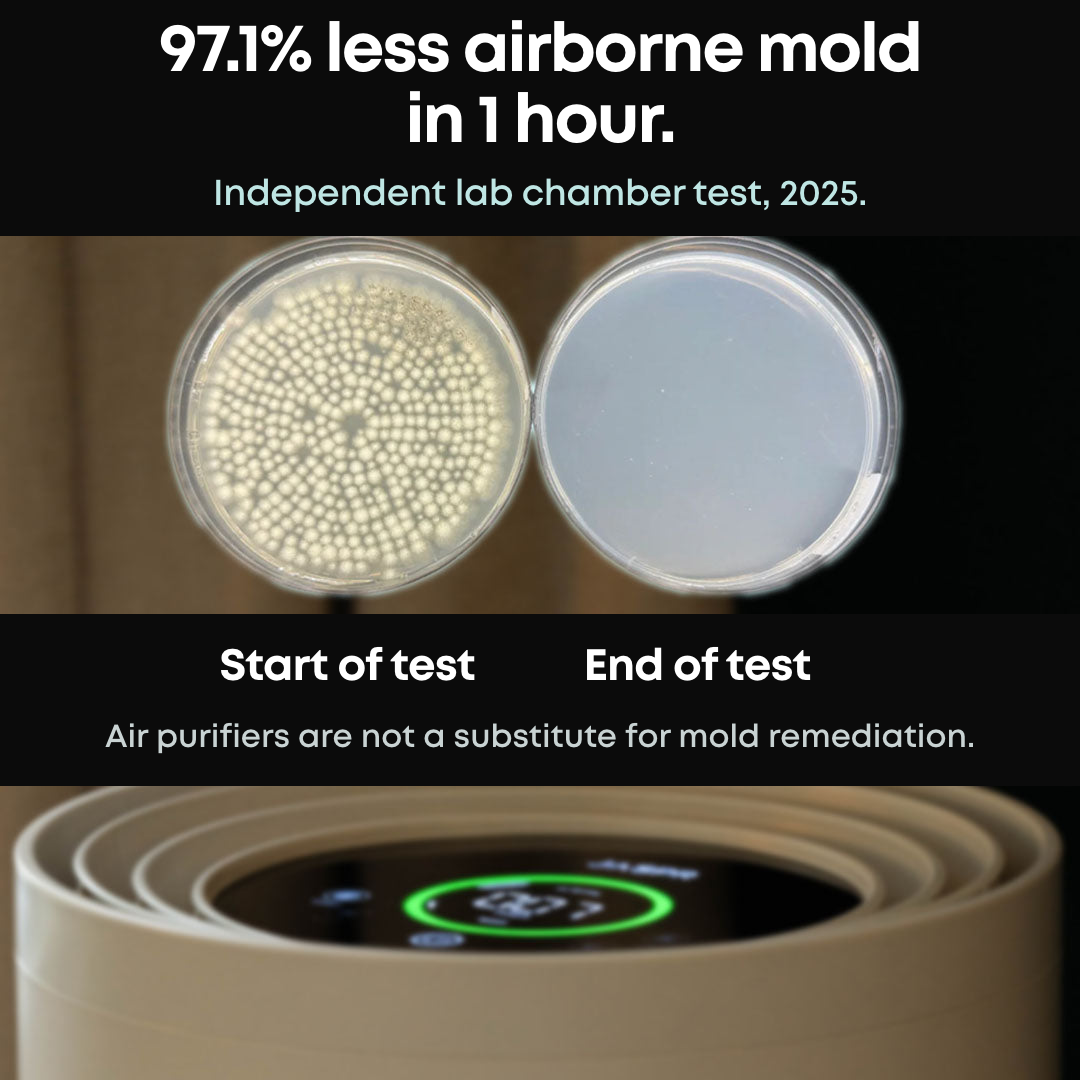
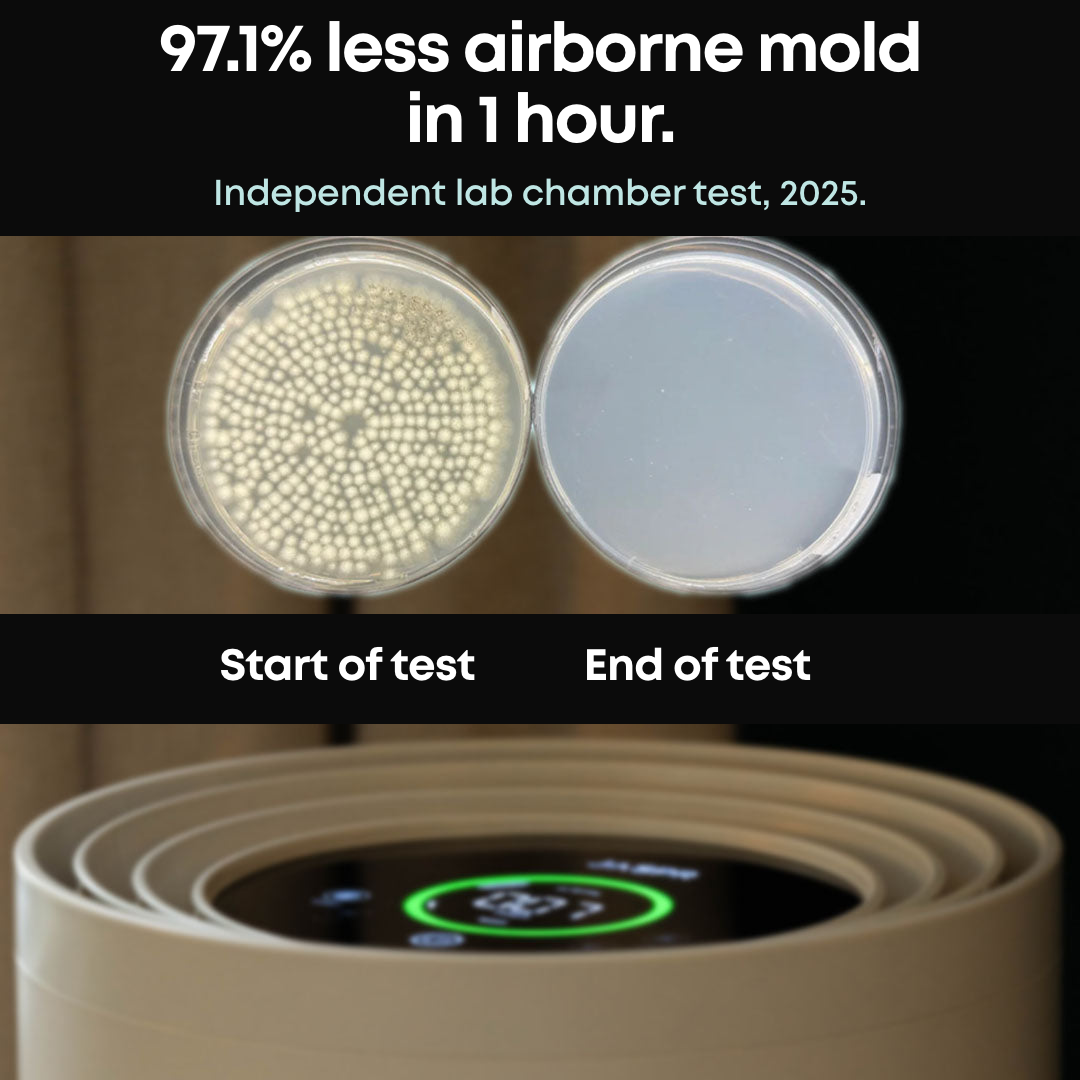
Gallery mold image: remediation line removed

Changed region(s): [[0.0, 0.6722, 0.9167, 0.7333]]

diff --git a/cro-review-886af9e9/sections/gallery-images/preview.html b/cro-review-886af9e9/sections/gallery-images/preview.html
@@ -216,7 +216,7 @@ summary.list-menu__item{padding-right:2.7rem}.list-menu__item{display:flex;align
   <div class="gal"><figure><img src="https://jaspr.co/cdn/shop/files/Jaspr_Alex_Clark_Web_photo_1.jpg?v=1793032386&width=1080" alt="" loading="lazy"></figure><figure><img src="https://jaspr.co/cdn/shop/files/jaspr-scrubber-brightened_ca2d3e73-ae5b-4bcd-8caf-c98d8d549d9d.png?v=1792511174&width=1080" alt="" loading="lazy"></figure><figure><img src="new/05-size.png" alt="" loading="lazy"><figcaption>New</figcaption></figure><figure><img src="new/07-protecting.png" alt="" loading="lazy"><figcaption>New</figcaption></figure><figure><img src="new/09-mold-lab-study.png" alt="" loading="lazy"><figcaption>New</figcaption></figure><figure><img src="new/06-clean-air-you-can-feel.png" alt="" loading="lazy"><figcaption>New</figcaption></figure><figure><img src="new/08-real-time-reading.png" alt="" loading="lazy"><figcaption>New</figcaption></figure><figure><img src="https://jaspr.co/cdn/shop/files/JasprArtboardArtboard4copy_9d21c27e-dd20-4767-8bda-12925e42b30d.jpg?v=1778792953&width=1080" alt="" loading="lazy"></figure><figure><img src="new/02-lifetime-warranty.png" alt="" loading="lazy"><figcaption>New</figcaption></figure><figure><img src="https://jaspr.co/cdn/shop/files/JasprArtboardArtboard23_db54fcfb-698f-42ab-b047-7918c51b60a8.jpg?v=1778792953&width=1080" alt="" loading="lazy"></figure><figure><img src="new/04-sleep-study.png" alt="" loading="lazy"><figcaption>New · needs sign-off</figcaption></figure><figure><img src="new/01-smoke-cadr.png" alt="" loading="lazy"><figcaption>New</figcaption></figure></div>
   <h2>Before and after</h2>
   <p class="lede">The five images on the card, then the four borderline ones. Each remake has one headline and at most one supporting line.</p>
-  <div class="pairs"><div class="pair"><h3>Wildfire smoke<span class="tag" style="background:#0E7A82">On the card</span></h3><div class="two"><div><img src="current/03-ChatGPT_Image_Jul_19_2026_at_11_18_14_AM.png" alt="Current image" loading="lazy"><span class="lbl">Now</span></div><div><img src="new/01-smoke-cadr.png" alt="Remade image" loading="lazy"><span class="lbl new">New</span></div></div><p>Paragraph and five tiny bullets replaced by one measured number. The old headline (“Built for wildfire smoke”) breaks the fact sheet’s wildfire rule, so it is gone. Better background: smoke-living-room.jpg (prompt written).</p></div><div class="pair"><h3>Lifetime warranty<span class="tag" style="background:#0E7A82">On the card</span></h3><div class="two"><div><img src="current/08-Jaspr_ArtboardArtboard_3_copy_1.jpg" alt="Current image" loading="lazy"><span class="lbl">Now</span></div><div><img src="new/02-lifetime-warranty.png" alt="Remade image" loading="lazy"><span class="lbl new">New</span></div></div><p>Amy K.’s long review is out (it already appears in the reviews below). The condition (filter subscription) is now in the headline instead of an asterisk.</p></div><div class="pair"><h3>Allergies / cat<span class="tag" style="background:#0E7A82">On the card</span></h3><div class="two"><div><img src="current/12-JasprArtboardArtboard17copy_269f0a4e-3994-43ad-812e-b7d58b084cfd.jpg" alt="Current image" loading="lazy"><span class="lbl">Now</span></div><div><img src="new/03-pets.png" alt="Remade image" loading="lazy"><span class="lbl new">New</span></div></div><p>Lisa N.’s review is out, and so is the allergy claim (symptom claims are not allowed). Not in the live gallery as of Nov 2; ready if it comes back. Optional better background: pets-living-room.jpg.</p></div><div class="pair"><h3>Sleep study<span class="tag" style="background:#B4452F">Needs sign-off</span></h3><div class="two"><div><img src="current/10-JasprArtboardArtboard11copy_a12bbf75-bfe0-45b7-b33e-a071319d29d7.jpg" alt="Current image" loading="lazy"><span class="lbl">Now</span></div><div><img src="new/04-sleep-study.png" alt="Remade image" loading="lazy"><span class="lbl new">New</span></div></div><p>The study numbers are now the headline. NEEDS SIGN-OFF: sleep claims are on hold until the Oura study write-up is approved. Better background: sleep-bedroom.jpg (prompt written).</p></div><div class="pair"><h3>Size comparison<span class="tag" style="background:#0E7A82">On the card</span></h3><div class="two"><div><img src="current/15-JasprArtboardArtboard24_ed5061ee-5ef0-4f47-92cd-6a9dd9bcaf45.jpg" alt="Current image" loading="lazy"><span class="lbl">Now</span></div><div><img src="new/05-size.png" alt="Remade image" loading="lazy"><span class="lbl new">New</span></div></div><p>The three tiny badges become one readable one. “Endorsed by health experts” is dropped (nothing on file backs it); “3rd party lab tested” is dropped because the only lab test on file is the mold test.</p></div><div class="pair"><h3>Clean air you can feel<span class="tag" style="background:#676986">Borderline, optional</span></h3><div class="two"><div><img src="current/05-JasprArtboardArtboard8copy_b2a109f0-72f0-4fac-b263-d053eff186c7.jpg" alt="Current image" loading="lazy"><span class="lbl">Now</span></div><div><img src="new/06-clean-air-you-can-feel.png" alt="Remade image" loading="lazy"><span class="lbl new">New</span></div></div><p>Marcia M.’s review (a sleep line) is out; supporting line is the verified “plug in, no app” fact.</p></div><div class="pair"><h3>Protecting those who need it most<span class="tag" style="background:#676986">Borderline, optional</span></h3><div class="two"><div><img src="current/13-JasprArtboardArtboard9copy_5e773d7d-aad5-422e-b7a2-cda9e7362697.jpg" alt="Current image" loading="lazy"><span class="lbl">Now</span></div><div><img src="new/07-protecting.png" alt="Remade image" loading="lazy"><span class="lbl new">New</span></div></div><p>The tiny “Trusted by over 50,000 customers” becomes a readable line. It uses the review count on file (more than 1,100); swap back to 50,000 if Jaspr can back it.</p></div><div class="pair"><h3>Real-time air quality<span class="tag" style="background:#676986">Borderline, optional</span></h3><div class="two"><div><img src="current/07-JasprArtboardArtboard7copy_55c43cdc-3a68-4173-a15a-0bddbf573c00.jpg" alt="Current image" loading="lazy"><span class="lbl">Now</span></div><div><img src="new/08-real-time-reading.png" alt="Remade image" loading="lazy"><span class="lbl new">New</span></div></div><p>Same idea, larger type. The supporting line describes what the sensor does, not the reading on the screen.</p></div><div class="pair"><h3>Mold lab study<span class="tag" style="background:#676986">Borderline, optional</span></h3><div class="two"><div><img src="current/06-JasprArtboardArtboard12copy2_f52f1ec7-0d73-4fc8-a3f4-4eeff32a0d2e.jpg" alt="Current image" loading="lazy"><span class="lbl">Now</span></div><div><img src="new/09-mold-lab-study.png" alt="Remade image" loading="lazy"><span class="lbl new">New</span></div></div><p>Dish labels say “Start / End of test” (the lab report’s photo is the 120-minute dish, not 60), plus the required remediation caveat.</p></div></div>
+  <div class="pairs"><div class="pair"><h3>Wildfire smoke<span class="tag" style="background:#0E7A82">On the card</span></h3><div class="two"><div><img src="current/03-ChatGPT_Image_Jul_19_2026_at_11_18_14_AM.png" alt="Current image" loading="lazy"><span class="lbl">Now</span></div><div><img src="new/01-smoke-cadr.png" alt="Remade image" loading="lazy"><span class="lbl new">New</span></div></div><p>Paragraph and five tiny bullets replaced by one measured number. The old headline (“Built for wildfire smoke”) breaks the fact sheet’s wildfire rule, so it is gone. Better background: smoke-living-room.jpg (prompt written).</p></div><div class="pair"><h3>Lifetime warranty<span class="tag" style="background:#0E7A82">On the card</span></h3><div class="two"><div><img src="current/08-Jaspr_ArtboardArtboard_3_copy_1.jpg" alt="Current image" loading="lazy"><span class="lbl">Now</span></div><div><img src="new/02-lifetime-warranty.png" alt="Remade image" loading="lazy"><span class="lbl new">New</span></div></div><p>Amy K.’s long review is out (it already appears in the reviews below). The condition (filter subscription) is now in the headline instead of an asterisk.</p></div><div class="pair"><h3>Allergies / cat<span class="tag" style="background:#0E7A82">On the card</span></h3><div class="two"><div><img src="current/12-JasprArtboardArtboard17copy_269f0a4e-3994-43ad-812e-b7d58b084cfd.jpg" alt="Current image" loading="lazy"><span class="lbl">Now</span></div><div><img src="new/03-pets.png" alt="Remade image" loading="lazy"><span class="lbl new">New</span></div></div><p>Lisa N.’s review is out, and so is the allergy claim (symptom claims are not allowed). Not in the live gallery as of Nov 2; ready if it comes back. Optional better background: pets-living-room.jpg.</p></div><div class="pair"><h3>Sleep study<span class="tag" style="background:#B4452F">Needs sign-off</span></h3><div class="two"><div><img src="current/10-JasprArtboardArtboard11copy_a12bbf75-bfe0-45b7-b33e-a071319d29d7.jpg" alt="Current image" loading="lazy"><span class="lbl">Now</span></div><div><img src="new/04-sleep-study.png" alt="Remade image" loading="lazy"><span class="lbl new">New</span></div></div><p>The study numbers are now the headline. NEEDS SIGN-OFF: sleep claims are on hold until the Oura study write-up is approved. Better background: sleep-bedroom.jpg (prompt written).</p></div><div class="pair"><h3>Size comparison<span class="tag" style="background:#0E7A82">On the card</span></h3><div class="two"><div><img src="current/15-JasprArtboardArtboard24_ed5061ee-5ef0-4f47-92cd-6a9dd9bcaf45.jpg" alt="Current image" loading="lazy"><span class="lbl">Now</span></div><div><img src="new/05-size.png" alt="Remade image" loading="lazy"><span class="lbl new">New</span></div></div><p>The three tiny badges become one readable one. “Endorsed by health experts” is dropped (nothing on file backs it); “3rd party lab tested” is dropped because the only lab test on file is the mold test.</p></div><div class="pair"><h3>Clean air you can feel<span class="tag" style="background:#676986">Borderline, optional</span></h3><div class="two"><div><img src="current/05-JasprArtboardArtboard8copy_b2a109f0-72f0-4fac-b263-d053eff186c7.jpg" alt="Current image" loading="lazy"><span class="lbl">Now</span></div><div><img src="new/06-clean-air-you-can-feel.png" alt="Remade image" loading="lazy"><span class="lbl new">New</span></div></div><p>Marcia M.’s review (a sleep line) is out; supporting line is the verified “plug in, no app” fact.</p></div><div class="pair"><h3>Protecting those who need it most<span class="tag" style="background:#676986">Borderline, optional</span></h3><div class="two"><div><img src="current/13-JasprArtboardArtboard9copy_5e773d7d-aad5-422e-b7a2-cda9e7362697.jpg" alt="Current image" loading="lazy"><span class="lbl">Now</span></div><div><img src="new/07-protecting.png" alt="Remade image" loading="lazy"><span class="lbl new">New</span></div></div><p>The tiny “Trusted by over 50,000 customers” becomes a readable line. It uses the review count on file (more than 1,100); swap back to 50,000 if Jaspr can back it.</p></div><div class="pair"><h3>Real-time air quality<span class="tag" style="background:#676986">Borderline, optional</span></h3><div class="two"><div><img src="current/07-JasprArtboardArtboard7copy_55c43cdc-3a68-4173-a15a-0bddbf573c00.jpg" alt="Current image" loading="lazy"><span class="lbl">Now</span></div><div><img src="new/08-real-time-reading.png" alt="Remade image" loading="lazy"><span class="lbl new">New</span></div></div><p>Same idea, larger type. The supporting line describes what the sensor does, not the reading on the screen.</p></div><div class="pair"><h3>Mold lab study<span class="tag" style="background:#676986">Borderline, optional</span></h3><div class="two"><div><img src="current/06-JasprArtboardArtboard12copy2_f52f1ec7-0d73-4fc8-a3f4-4eeff32a0d2e.jpg" alt="Current image" loading="lazy"><span class="lbl">Now</span></div><div><img src="new/09-mold-lab-study.png" alt="Remade image" loading="lazy"><span class="lbl new">New</span></div></div><p>Dish labels say “Start / End of test” (the lab report’s photo is the 120-minute dish, not 60).</p></div></div>
   <h2>New background versions</h2>
   <p class="lede">Three versions each, made with an image generator using a real Jaspr photo as the guide, then placed in the same layout as above. Pick one per row, or keep the current photo.</p>
   <div class="ver"><h3>Wildfire smoke</h3><p>Hazy orange sky outside, no flames, no people. Replaces the burning-city picture.</p><div class="three"><div><img src="new/v-smoke-v1.png" alt="Wildfire smoke, version 1" loading="lazy"><span class="lbl new">Version 1</span></div><div><img src="new/v-smoke-v2.png" alt="Wildfire smoke, version 2" loading="lazy"><span class="lbl new">Version 2</span></div><div><img src="new/v-smoke-v3.png" alt="Wildfire smoke, version 3" loading="lazy"><span class="lbl new">Version 3</span></div></div></div><div class="ver"><h3>Sleep study</h3><p>Made bed at dusk, warm lamp, no people. Still on hold until the sleep claim is signed off.</p><div class="three"><div><img src="new/v-sleep-v1.png" alt="Sleep study, version 1" loading="lazy"><span class="lbl new">Version 1</span></div><div><img src="new/v-sleep-v2.png" alt="Sleep study, version 2" loading="lazy"><span class="lbl new">Version 2</span></div><div><img src="new/v-sleep-v3.png" alt="Sleep study, version 3" loading="lazy"><span class="lbl new">Version 3</span></div></div></div><div class="ver"><h3>Pets</h3><p>Animal beside the Jaspr. The real cat photo above already works; these are only for comparison.</p><div class="three"><div><img src="new/v-pets-v1.png" alt="Pets, version 1" loading="lazy"><span class="lbl new">Version 1</span></div><div><img src="new/v-pets-v2.png" alt="Pets, version 2" loading="lazy"><span class="lbl new">Version 2</span></div><div><img src="new/v-pets-v3.png" alt="Pets, version 3" loading="lazy"><span class="lbl new">Version 3</span></div></div></div>
